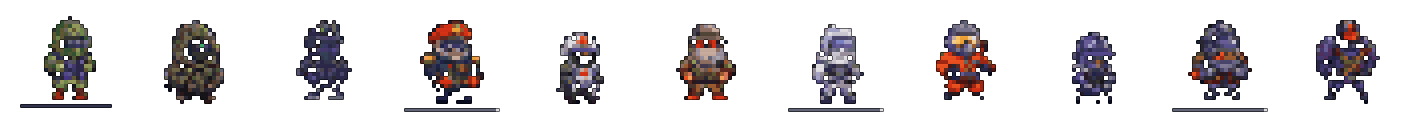
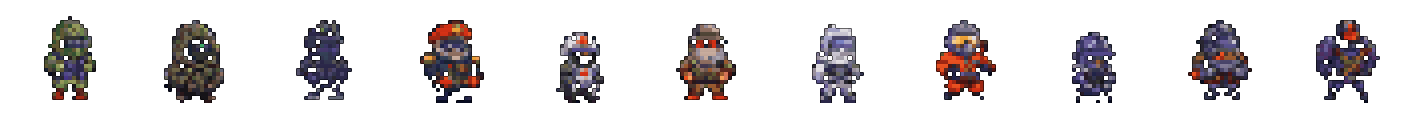
feat: animacao de caminhada articulada com movimento de pernas para os herois

diff --git a/src/utils/characterRenderers.js b/src/utils/characterRenderers.js
@@ -4489,6 +4489,9 @@ export const drawBatman = drawExecutive;
 // ============================================================================
 let heroRosterImg = null;
 let heroRosterLoaded = false;
+let heroRosterUpperImg = null;
+let heroRosterLegLeftImg = null;
+let heroRosterLegRightImg = null;
 let weaponRosterImg = null;
 let weaponRosterLoaded = false;
 
@@ -4501,6 +4504,30 @@ export function initRosterSprites() {
     img.onload = () => {
       heroRosterImg = img;
       heroRosterLoaded = true;
+    };
+  }
+  if (!heroRosterUpperImg) {
+    const uImg = new Image();
+    uImg.crossOrigin = 'anonymous';
+    uImg.src = '/assets/hero-roster-upper.png';
+    uImg.onload = () => {
+      heroRosterUpperImg = uImg;
+    };
+  }
+  if (!heroRosterLegLeftImg) {
+    const llImg = new Image();
+    llImg.crossOrigin = 'anonymous';
+    llImg.src = '/assets/hero-roster-leg-left.png';
+    llImg.onload = () => {
+      heroRosterLegLeftImg = llImg;
+    };
+  }
+  if (!heroRosterLegRightImg) {
+    const lrImg = new Image();
+    lrImg.crossOrigin = 'anonymous';
+    lrImg.src = '/assets/hero-roster-leg-right.png';
+    lrImg.onload = () => {
+      heroRosterLegRightImg = lrImg;
     };
   }
   if (!weaponRosterImg) {
@@ -4549,6 +4576,18 @@ export function drawRosterHero(ctx, hero, weapon, now, swingAngle, legAngle, swi
   const wsx = sourceIndex * wsw;
   const wsy = 0;
 
+  const dx = -pw / 2;
+  const dy = -ph + 9;
+
+  // Pontos de pivô anatômicos do quadril para os 11 heróis (proporcionais à moldura 128x128)
+  const hipLeftX = dx + pw * (58 / 128);
+  const hipLeftY = dy + ph * (71 / 128);
+
+  const hipRightX = dx + pw * (76 / 128);
+  const hipRightY = dy + ph * (71 / 128);
+
+  const hasParts = heroRosterUpperImg?.complete && heroRosterLegLeftImg?.complete && heroRosterLegRightImg?.complete;
+
   // =========================================================================
   // 1. MODO REPOUSO & CAMINHADA (IDLE / WALKING)
   // =========================================================================
@@ -4556,49 +4595,78 @@ export function drawRosterHero(ctx, hero, weapon, now, swingAngle, legAngle, swi
     ctx.save();
     ctx.translate(0, 14); // Pivot exatamente na base dos pés
 
-    // Swagger / ginga de caminhada e respiração
-    const walkBob = Math.abs(Math.sin(now * 0.012)) * 1.5;
-    const bodySway = Math.sin(now * 0.012) * 0.035;
-    const breathY = 1 + Math.sin(now * 0.01) * 0.02;
-    const breathX = 1 - Math.sin(now * 0.01) * 0.01;
+    // Frequência dinâmica dos passos (mesmo ritmo e amplitude de passada dos zumbis)
+    const stepPhase = now * 0.016;
+    const heroLegSwing = Math.sin(stepPhase) * 0.42; // ~24 graus de passada alternada
+    const stepBob = Math.abs(Math.sin(stepPhase)) * 1.6;
+    const torsoSway = Math.sin(stepPhase) * 0.035;
 
-    ctx.translate(0, -walkBob);
-    ctx.rotate(bodySway);
-    ctx.scale(breathX, breathY);
-
-    // Desenha corpo do Herói com renderização vetorial suave e pés tocando o solo
-    if (heroRosterLoaded && heroRosterImg) {
+    if (hasParts) {
       ctx.save();
       ctx.imageSmoothingEnabled = true;
       ctx.imageSmoothingQuality = 'high';
       ctx.filter = 'drop-shadow(0px 1px 1.5px rgba(0,0,0,0.55))';
-      ctx.drawImage(heroRosterImg, sx, sy, sw, sh, -pw / 2, -ph + 9, pw, ph);
+
+      // 1. Perna Direita (trás / fundo)
+      ctx.save();
+      ctx.translate(hipRightX, hipRightY);
+      ctx.rotate(-heroLegSwing);
+      ctx.translate(-hipRightX, -hipRightY);
+      ctx.drawImage(heroRosterLegRightImg, sx, sy, sw, sh, dx, dy, pw, ph);
+      ctx.restore();
+
+      // 2. Perna Esquerda (frente)
+      ctx.save();
+      ctx.translate(hipLeftX, hipLeftY);
+      ctx.rotate(heroLegSwing);
+      ctx.translate(-hipLeftX, -hipLeftY);
+      ctx.drawImage(heroRosterLegLeftImg, sx, sy, sw, sh, dx, dy, pw, ph);
+      ctx.restore();
+
+      // 3. Tronco Superior (Cabeça, Jaqueta, Torso, Braços)
+      ctx.save();
+      ctx.translate(0, -stepBob);
+      ctx.rotate(torsoSway);
+      ctx.drawImage(heroRosterUpperImg, sx, sy, sw, sh, dx, dy, pw, ph);
+
+      // Arma apoiada na mão direita do herói em marcha
+      if (weaponRosterLoaded && weaponRosterImg) {
+        ctx.save();
+        ctx.translate(11, -11);
+        ctx.rotate(0.35 + Math.sin(stepPhase) * 0.04);
+        ctx.drawImage(weaponRosterImg, wsx, wsy, wsw, wsh, -6, -10, gw, gh);
+
+        // Mão do herói segurando a coronha / empunhadura
+        ctx.fillStyle = '#fed7aa';
+        ctx.strokeStyle = '#1c1917';
+        ctx.lineWidth = 1.3;
+        ctx.beginPath();
+        ctx.arc(0, 0, 2.8, 0, Math.PI * 2);
+        ctx.fill();
+        ctx.stroke();
+
+        ctx.restore();
+      }
+
+      ctx.restore(); // Fecha tronco
+      ctx.restore(); // Fecha filtros
+    } else if (heroRosterLoaded && heroRosterImg) {
+      ctx.save();
+      ctx.imageSmoothingEnabled = true;
+      ctx.imageSmoothingQuality = 'high';
+      ctx.filter = 'drop-shadow(0px 1px 1.5px rgba(0,0,0,0.55))';
+      ctx.drawImage(heroRosterImg, sx, sy, sw, sh, dx, dy, pw, ph);
+      if (weaponRosterLoaded && weaponRosterImg) {
+        ctx.save();
+        ctx.translate(11, -11);
+        ctx.rotate(0.35);
+        ctx.drawImage(weaponRosterImg, wsx, wsy, wsw, wsh, -6, -10, gw, gh);
+        ctx.restore();
+      }
       ctx.restore();
     } else {
       ctx.fillStyle = '#38bdf8';
-      ctx.fillRect(-pw / 2, -ph + 9, pw, ph);
-    }
-
-    // Arma em repouso na mão direita, apontada diagonalmente para baixo
-    if (weaponRosterLoaded && weaponRosterImg) {
-      ctx.save();
-      ctx.translate(11, -11);
-      ctx.rotate(0.35 + Math.sin(now * 0.012) * 0.04);
-      ctx.imageSmoothingEnabled = true;
-      ctx.imageSmoothingQuality = 'high';
-      ctx.filter = 'drop-shadow(0px 1px 1.5px rgba(0,0,0,0.55))';
-      ctx.drawImage(weaponRosterImg, wsx, wsy, wsw, wsh, -6, -10, gw, gh);
-
-      // Mão do herói segurando a coronha / empunhadura
-      ctx.fillStyle = '#fed7aa';
-      ctx.strokeStyle = '#1c1917';
-      ctx.lineWidth = 1.3;
-      ctx.beginPath();
-      ctx.arc(0, 0, 2.8, 0, Math.PI * 2);
-      ctx.fill();
-      ctx.stroke();
-
-      ctx.restore();
+      ctx.fillRect(dx, dy, pw, ph);
     }
 
     ctx.restore();
@@ -4659,21 +4727,40 @@ export function drawRosterHero(ctx, hero, weapon, now, swingAngle, legAngle, swi
     handY = -12 + 2 * p;
   }
 
-  // Desenha Corpo do Herói com contorno vetorial e suavização
-  ctx.save();
-  ctx.translate(lungeX, 0);
-  ctx.rotate(bodyAngle);
-  ctx.scale(scaleX, scaleY);
-  if (heroRosterLoaded && heroRosterImg) {
+  // Desenha Corpo do Herói: pernas firmes no chão e tronco absorvendo recuo
+  if (hasParts) {
+    ctx.save();
     ctx.imageSmoothingEnabled = true;
     ctx.imageSmoothingQuality = 'high';
     ctx.filter = 'drop-shadow(0px 1px 1.5px rgba(0,0,0,0.55))';
-    ctx.drawImage(heroRosterImg, sx, sy, sw, sh, -pw / 2, -ph + 9, pw, ph);
+
+    // Ambas as pernas desenhadas alinhadas e firmes no solo
+    ctx.drawImage(heroRosterLegRightImg, sx, sy, sw, sh, dx, dy, pw, ph);
+    ctx.drawImage(heroRosterLegLeftImg, sx, sy, sw, sh, dx, dy, pw, ph);
+
+    // Tronco Superior com recuo e lungeX
+    ctx.save();
+    ctx.translate(lungeX, 0);
+    ctx.rotate(bodyAngle);
+    ctx.scale(scaleX, scaleY);
+    ctx.drawImage(heroRosterUpperImg, sx, sy, sw, sh, dx, dy, pw, ph);
+    ctx.restore();
+
+    ctx.restore();
+  } else if (heroRosterLoaded && heroRosterImg) {
+    ctx.save();
+    ctx.translate(lungeX, 0);
+    ctx.rotate(bodyAngle);
+    ctx.scale(scaleX, scaleY);
+    ctx.imageSmoothingEnabled = true;
+    ctx.imageSmoothingQuality = 'high';
+    ctx.filter = 'drop-shadow(0px 1px 1.5px rgba(0,0,0,0.55))';
+    ctx.drawImage(heroRosterImg, sx, sy, sw, sh, dx, dy, pw, ph);
+    ctx.restore();
   } else {
     ctx.fillStyle = '#38bdf8';
-    ctx.fillRect(-pw / 2, -ph + 9, pw, ph);
+    ctx.fillRect(dx, dy, pw, ph);
   }
-  ctx.restore();
 
   // Desenha a Arma do Herói com empunhadura
   if (weaponRosterLoaded && weaponRosterImg) {

diff --git a/src/utils/renderGraphics.js b/src/utils/renderGraphics.js
@@ -373,7 +373,7 @@ export function drawMinerCharacter(ctx, mx, my, miner, classInfo, now, swingProg
 
   const isWorking = miner.status === 'work';
   const isMining = miner.isMining;
-  const bounceY = isWorking && !isMining ? Math.sin(now * 0.015) * 2.5 : 0;
+  const bounceY = 0;
   const legAngle = isWorking && !isMining ? Math.sin(now * 0.02) * 5 : 0;
   const swingAngle = isMining && swingProgress > 0 ? -Math.sin(swingProgress * Math.PI) * 1.35 : 0;
 
